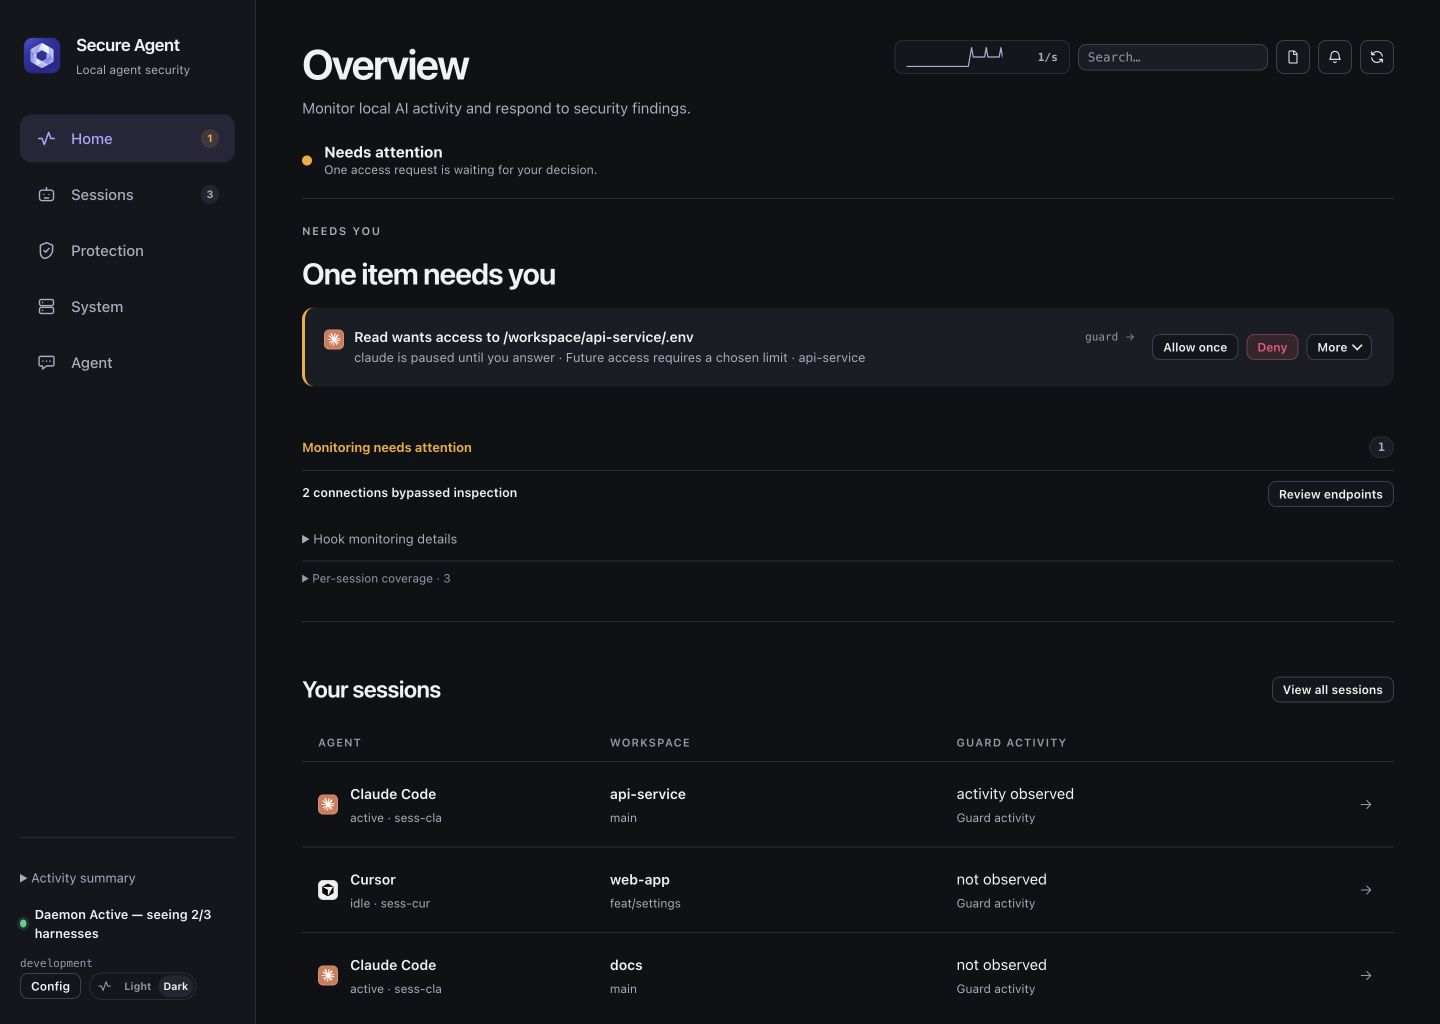
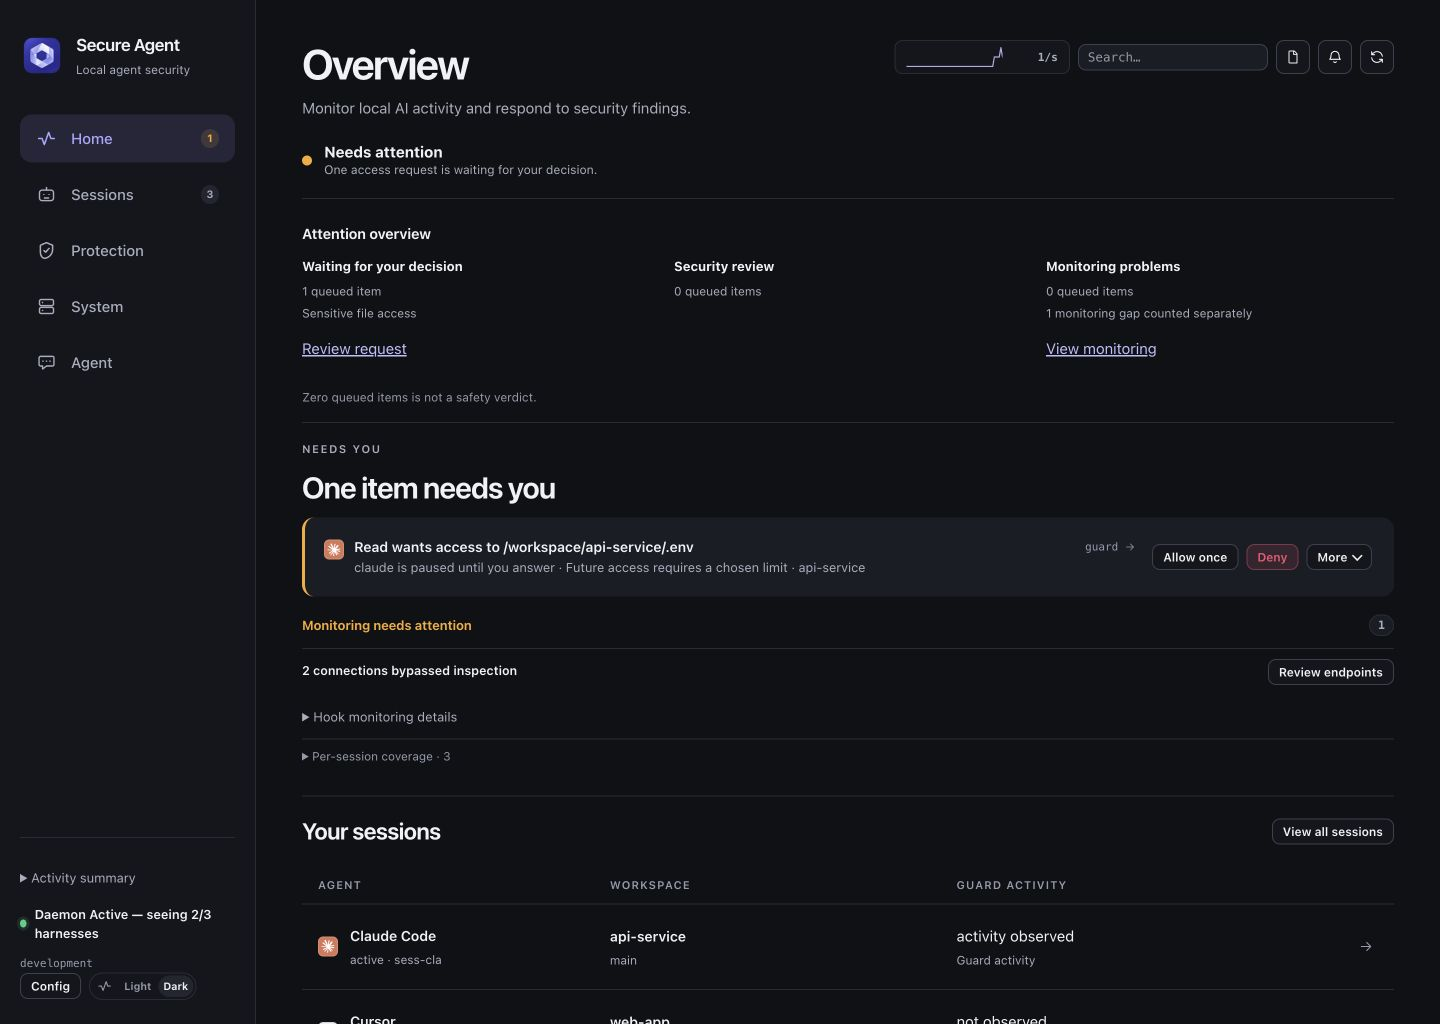
fix: reduce console navigation friction (#565)
* fix: reduce console navigation friction

* docs: refresh console overview screenshot

diff --git a/daemon/internal/api/web_dist/tab-findings.js b/daemon/internal/api/web_dist/tab-findings.js
@@ -42,15 +42,15 @@ function renderCoverage() {
             ? '<span class="coverage-guidance">Run Doctor to review lost telemetry. Restarting cannot restore missing evidence.</span>'
         : '<span class="coverage-guidance">Check Setup &amp; Permissions in the menu bar</span>';
     return `<div class="coverage-row"><span><strong>${escapeHTML(it.title)}</strong><span>${escapeHTML(it.detail || '')}</span></span>${action}</div>`;
-  }).join('') + (showHooks ? `<details class="coverage-diagnostics" data-hook-disclosure="monitoring"><summary>Hook monitoring details</summary>${hookMonitoringHTML(hooks)}</details>` : '') + (hookSetup ? '<button type="button" class="link-btn" data-action="hook-setup">Hook setup and verification</button>' : '') + (sessions.length ? `<details class="coverage-harness"><summary>Per-session coverage · ${sessions.length}</summary>${sessions.map(s => {
+  }).join('') + (showHooks ? `<details class="coverage-diagnostics" data-hook-disclosure="monitoring"><summary>Hook monitoring details</summary>${hookMonitoringHTML(hooks)}</details>` : '') + (hookSetup ? '<button type="button" class="link-btn" data-action="hook-setup">Hook setup and verification</button>' : '') + (sessions.length ? `<details class="coverage-harness" data-coverage-disclosure="sessions"><summary>Per-session coverage · ${sessions.length}</summary>${sessions.map(s => {
     const path = (name, p = {}) => {
       p = p || {};
       return `<span>${name}: ${escapeHTML(coveragePathLabel(p))}${p.last_seen ? ` · ${escapeHTML(p.last_seen)}` : ''}</span><span class="coverage-guidance">${escapeHTML(p.detail || '')}</span>`;
     };
-    return `<details class="coverage-session" data-session-id="${escapeHTML(s.session_id || '')}"><summary>${escapeHTML(s.workspace || s.harness || 'Unresolved session')} · Guard: ${escapeHTML(coveragePathLabel(s.guard))}</summary><div class="coverage-row"><span><strong>${escapeHTML(s.harness || '')}${s.session_id ? '' : ' · session identity unresolved'}</strong>${path('Trace', s.trace)}${path('Guard', s.guard)}${path('Payload inspection', s.payload)}</span></div></details>`;
+    return `<details class="coverage-session" data-coverage-disclosure="${escapeHTML(JSON.stringify(s.session_id ? ['session', s.session_id] : ['unresolved', s.harness || '', s.workspace || '']))}" data-session-id="${escapeHTML(s.session_id || '')}"><summary>${escapeHTML(s.workspace || s.harness || 'Unresolved session')} · Guard: ${escapeHTML(coveragePathLabel(s.guard))}</summary><div class="coverage-row"><span><strong>${escapeHTML(s.harness || '')}${s.session_id ? '' : ' · session identity unresolved'}</strong>${path('Trace', s.trace)}${path('Guard', s.guard)}${path('Payload inspection', s.payload)}</span></div></details>`;
   }).join('')}<p class="coverage-guidance">Observations belong to each session. An installed-hook check and activity in another session do not prove this session is protected.</p>${status.coverage.sessions_truncated ? '<p class="coverage-guidance">More sessions are running than this list can show. Coverage for the remaining sessions is not shown.</p>' : ''}</details>` : '')
-  + (probes.length ? `<details class="coverage-harness"><summary>Installed hook checks</summary>${probes.map(p => `<div class="coverage-row"><span><strong>${escapeHTML(p.harness)} · ${escapeHTML(p.state)}</strong><span>${escapeHTML(p.hook_path)}</span><span>Checked ${escapeHTML(p.checked_at)}</span><span>${escapeHTML(p.detail)}</span></span></div>`).join('')}</details>` : '')
-  + (harnesses.length ? `<details class="coverage-harness"><summary>Per-agent coverage</summary>${harnesses.map(h => {
+  + (probes.length ? `<details class="coverage-harness" data-coverage-disclosure="probes"><summary>Installed hook checks</summary>${probes.map(p => `<div class="coverage-row"><span><strong>${escapeHTML(p.harness)} · ${escapeHTML(p.state)}</strong><span>${escapeHTML(p.hook_path)}</span><span>Checked ${escapeHTML(p.checked_at)}</span><span>${escapeHTML(p.detail)}</span></span></div>`).join('')}</details>` : '')
+  + (harnesses.length ? `<details class="coverage-harness" data-coverage-disclosure="agents"><summary>Per-agent coverage</summary>${harnesses.map(h => {
     const trace = !h.trace_supported ? 'not supported' : h.trace_last_seen ? 'activity observed in 24h' : 'supported; no activity observed in 24h';
     const guard = !h.guard_supported ? 'not supported' : h.hook_last_seen ? 'hook activity observed in 24h' : 'supported; no hook activity observed in 24h';
     return `<div class="coverage-row"><span><strong>${escapeHTML(h.name)}</strong><span>Trace: ${escapeHTML(trace)} · Guard: ${escapeHTML(guard)}</span></span></div>`;
@@ -58,16 +58,18 @@ function renderCoverage() {
     ? 'Payload inspection covers connections routed through the proxy; review Egress for coverage.'
     : 'Payload inspection is off (proxy disabled).'} Recent harness activity does not prove every current session is guarded.</p></details>` : '');
   if (list.coverageHTML === html) return;
-  const open=new Set([...(list.querySelectorAll?.('[data-hook-disclosure][open]') || [])].map(el=>el.dataset.hookDisclosure));
+  const disclosures = '[data-hook-disclosure], [data-coverage-disclosure]';
+  const key = el => el?.dataset.hookDisclosure ? 'hook:' + el.dataset.hookDisclosure : el?.dataset.coverageDisclosure ? 'coverage:' + el.dataset.coverageDisclosure : null;
+  const open=new Set([...(list.querySelectorAll?.(disclosures) || [])].filter(el=>el.open).map(key));
   const focused=document.activeElement;
   const action=focused?.closest?.('[data-action]');
   const focusKey=action && list.contains?.(action) ? JSON.stringify(action.dataset) : null;
-  const summaryKey=focused?.matches?.('summary') && focused.parentElement?.dataset.hookDisclosure;
+  const summaryKey=focused?.matches?.('summary') && key(focused.parentElement);
   list.innerHTML=html;
   list.coverageHTML=html;
-  for(const el of list.querySelectorAll?.('[data-hook-disclosure]') || []) if(open.has(el.dataset.hookDisclosure)) el.open=true;
+  for(const el of list.querySelectorAll?.(disclosures) || []) if(open.has(key(el))) el.open=true;
   const replacement=focusKey ? [...(list.querySelectorAll?.('[data-action]') || [])].find(el=>JSON.stringify(el.dataset)===focusKey)
-    : summaryKey ? [...(list.querySelectorAll?.('[data-hook-disclosure]') || [])].find(el=>el.dataset.hookDisclosure===summaryKey)?.querySelector('summary') : null;
+    : summaryKey ? [...(list.querySelectorAll?.(disclosures) || [])].find(el=>key(el)===summaryKey)?.querySelector('summary') : null;
   replacement?.focus({preventScroll:true});
 }
 
@@ -456,7 +458,7 @@ function attentionSummaryHTML(posture, stale) {
     const inspect = !stale && first ? `<button type="button" class="link-btn" data-action="select-attention" data-need-kind="${escapeHTML(first.kind)}" data-need-id="${escapeHTML(first.id)}">${b.kind === 'decisions' ? 'Review request' : b.kind === 'security' ? 'Review evidence' : 'Inspect issue'}</button>` : '';
     const gaps = b.coverage_count ? `<p>${b.coverage_count} monitoring gap${b.coverage_count === 1 ? '' : 's'} counted separately</p>${!stale ? '<button type="button" class="link-btn" data-action="view-monitoring">View monitoring</button>' : ''}` : '';
     return `<article class="attention-summary-card"><h3>${titles[b.kind]}</h3><p>${b.count} queued item${b.count === 1 ? '' : 's'}</p>${first ? `<p>${escapeHTML(first.title)}</p>` : ''}${inspect}${gaps}</article>`;
-  }).join('')}</div><p>Queue categories preserve the existing priority and actions. Zero queued items is not a safety verdict.</p>`;
+  }).join('')}</div><p>Zero queued items is not a safety verdict.</p>`;
 }
 
 function renderAttentionSummary(SA) {

diff --git a/daemon/internal/api/web_dist/session-workbench.js b/daemon/internal/api/web_dist/session-workbench.js
@@ -5,7 +5,7 @@
 
 // Empty recovery considers ended sessions hidden only by Live only.
 function sessionEmptyHTML(groups, filter) {
-  const filtered = !!String(filter.text || '').trim() || Object.values(filter.harnesses || {}).some(value => value === false);
+  const filtered = !!String(filter.text || filter.search || '').trim() || Object.values(filter.harnesses || {}).some(value => value === false);
   const visible = new Set(visibleSessionMembers(applySessionFilters(groups, filter)).map(session => session.id));
   const hiddenEnded = filter.liveOnly && visibleSessionMembers(applySessionFilters(groups, {...filter, liveOnly: false}))
     .some(session => session.status === 'ended' && !visible.has(session.id));
@@ -620,9 +620,10 @@ function sessionHooksHTML(rows, state, health, healthState, ingestion, sessionId
 
 // Durable IDs are the entry point; live process counts and setup checks do
 // not substitute for a session's own record.
-function sessionDailyHTML(sessions, coverage) {
+function sessionDailyHTML(sessions, coverage, search) {
   if (!Array.isArray(sessions)) return '<p role="status">Session data unavailable.</p>';
-  const live = sessions.filter(s => s.status === 'active' || s.status === 'idle');
+  const live = sessions.filter(s => (s.status === 'active' || s.status === 'idle') && sessionMatchesText(s, search));
+  if (!live.length && String(search || '').trim()) return '<p role="status">No live sessions match your search. <button type="button" class="link-btn" data-action="clear-global-search">Clear search</button></p>';
   if (!live.length) return '<p>No live sessions recorded. Active processes may not yet have an attributed session.</p>';
   const rows = live.slice(0, 6).map(s => {
     const observed = ((coverage && coverage.sessions) || []).find(c => c.session_id === s.id);
@@ -640,7 +641,7 @@ function renderSessionDaily() {
   const el = document.getElementById('session-daily');
   if (!el) return;
   const SA = window.SA;
-  const html = sessionDailyHTML(SA.t.sessions, SA.t.status && SA.t.status.coverage);
+  const html = sessionDailyHTML(SA.t.sessions, SA.t.status && SA.t.status.coverage, window.globalSearchTerm?.());
   if (el._saHTML !== html) { el.innerHTML = html; el._saHTML = html; }
 }
 
@@ -1284,9 +1285,9 @@ function createSessionWorkbench({ apiFetch, renderNow, onSelect = () => {} }) {
     if (!rail) return;
     const agents = (SA.t.status && SA.t.status.agents) ? SA.t.status.agents : [];
     const trees = SA.t.status && SA.t.status.trees;
-    const filter = SA.harnessFilter;
+    const filter = {...SA.harnessFilter, search: window.globalSearchTerm?.() || ''};
     const q = filter.text || '';
-    const filtered = !!String(q).trim() || Object.values(filter.harnesses).some(v => v === false);
+    const filtered = !!String(q || filter.search).trim() || Object.values(filter.harnesses).some(v => v === false);
     const noMatch = `<div class="empty"><svg class="icon"><use href="#i-agent"/></svg><span>No sessions match — <button type="button" class="link-btn" data-action="clear-harness-filter">clear the filter</button></span></div>`;
     const quiet = `<div class="empty"><svg class="icon"><use href="#i-agent"/></svg><span>All quiet. Nothing is running.</span></div>`;
     // The durable session spine (/sessions) is the source of truth when the
@@ -1379,7 +1380,7 @@ function createSessionWorkbench({ apiFetch, renderNow, onSelect = () => {} }) {
     }
 
     // Legacy fallback: process-tree board, no rail, no harness grouping.
-    const rows = filterSessionRows(sessionRows(agents, trees), q);
+    const rows = filterSessionRows(filterSessionRows(sessionRows(agents, trees), q), filter.search);
     if (badge) badge.textContent = rows.length;
     SA.setTabBadge('sessions', rows.length);
     if (pills) pills.innerHTML = '';
@@ -1388,7 +1389,7 @@ function createSessionWorkbench({ apiFetch, renderNow, onSelect = () => {} }) {
     if (detail) detail.hidden = true;
     if (legacy) legacy.hidden = false;
     if (rows.length === 0) {
-      legacy.innerHTML = String(q).trim() ? noMatch : quiet;
+      legacy.innerHTML = filtered ? noMatch : quiet;
       return;
     }
     const now = Date.now();

diff --git a/daemon/internal/api/web_dist/style.css b/daemon/internal/api/web_dist/style.css
@@ -1226,7 +1226,7 @@ main { min-width: 0; }
 .protection-view { display: flex; flex-direction: column; gap: 18px; min-width: 0; }
 .protection-view .panel-head p { max-width: 72ch; margin-top: 4px; font-size: .78rem; color: var(--tx-2); }
 .protection-view .notify-pop-sub, .drawer-body > p { max-width: 72ch; }
-.needs { display: grid; gap: 16px; margin-bottom: 32px; }
+.needs { display: grid; gap: 12px; margin-bottom: 0; }
 .needs[hidden] { display: none; }
 .review-result[hidden] { display: none; }
 .review-result .panel-head { flex-wrap: wrap; }
@@ -1268,7 +1268,7 @@ button.need-head:hover .need-what { text-decoration: underline; text-decoration-
 .need-detail { grid-column: 1 / -1; display: grid; gap: 10px; padding: 4px 0 4px 30px; }
 .need-detail[hidden], .log-detail[hidden] { display: none; }
 
-.coverage-panel { background: transparent; border: 0; border-bottom: 1px solid var(--line); border-radius: 0; margin-bottom: 32px; padding-bottom: 20px; }
+.coverage-panel { background: transparent; border: 0; border-bottom: 1px solid var(--line); border-radius: 0; margin-bottom: 0; padding-bottom: 16px; }
 .coverage-panel .panel-head { padding: 0 0 12px; border: 0; }
 .coverage-panel .panel-body { padding-left: 0; padding-right: 0; }
 .coverage-panel[data-gap="true"] h2 { color: var(--warn); }
@@ -1795,11 +1795,15 @@ button.fact:hover { background: var(--bg-3); border-color: var(--brand); }
 .sd-outcome h5 { margin: 0; font-size: 13px; }
 .sd-outcome time { font: 11px/1.4 var(--mono); color: var(--tx-2); }
 .sd-outcome p { margin: 6px 0; font-size: 12px; }
-.attention-summary-grid { display: grid; grid-template-columns: repeat(auto-fit, minmax(min(100%, 220px), 1fr)); gap: 12px; }
-.attention-summary-card { min-width: 0; padding: 12px; border: 1px solid var(--line); border-radius: var(--r-sm); overflow-wrap: anywhere; }
-.attention-summary-card h3 { margin: 0 0 8px; font-size: 13px; }
-.attention-summary-card p { margin: 6px 0; color: var(--tx-2); }
+.attention-overview { border: 0; border-bottom: 1px solid var(--line); border-radius: 0; background: transparent; }
+.attention-overview .panel-head { padding: 0 0 12px; border: 0; }
+.attention-overview .panel-body { padding: 0 0 16px; }
+.attention-summary-grid { display: grid; grid-template-columns: repeat(auto-fit, minmax(min(100%, 220px), 1fr)); gap: 12px 24px; }
+.attention-summary-card { min-width: 0; padding: 0; overflow-wrap: anywhere; }
+.attention-summary-card h3 { margin: 0 0 6px; font-size: 13px; }
+.attention-summary-card p { margin: 4px 0; color: var(--tx-2); font-size: 12px; }
 .attention-summary-card .link-btn { min-height: 44px; }
+#attention-summary > p { margin: 8px 0 0; color: var(--tx-3); font-size: 12px; }
 .sd-hooks-scroll { max-width: 100%; overflow-x: auto; }
 .sd-hook-evidence { min-width: 0; overflow-wrap: anywhere; }
 .hook-diagnostic-preview { min-width: 0; margin-top: 16px; }

diff --git a/packaging/test/console_dom/cases_home_ux.js b/packaging/test/console_dom/cases_home_ux.js
@@ -1,0 +1,42 @@
+// Search and reading continuity through the real render and refresh lifecycle.
+(() => {
+  const {data, ready, wait, idle, openTab} = window.DomTest;
+  const sample = {session_id:'sess-claude-1', harness:'claude', workspace:'/workspace/api-service', guard:{state:'observed', detail:'Session observation', last_seen:'2026-10-15T12:00:00Z'}, trace:{state:'observed'}, payload:{state:'not-observed'}};
+  data['/status'].coverage = {sessions:[sample]};
+  ready().then(async () => {
+    const probe = {};
+    try {
+      openTab('home');
+      await wait(() => !!document.querySelector('.coverage-session'));
+      const root = document.querySelector('.coverage-session').parentElement;
+      root.open = true;
+      const row = root.querySelector('.coverage-session');
+      row.open = true;
+      row.querySelector('summary').focus();
+      sample.guard.last_seen = '2026-10-15T12:01:00Z';
+      document.querySelector('#btn-refresh').click();
+      await wait(() => document.querySelector('#coverage-list').textContent.includes('12:01:00'));
+      await idle();
+      const updated = document.querySelector('.coverage-session');
+      probe.reading = updated.open && updated.parentElement.open;
+      probe.focus = document.activeElement === updated.querySelector('summary');
+      const input = document.querySelector('#global-search');
+      const search = async value => {input.value = value; input.dispatchEvent(new Event('input', {bubbles:true})); await idle();};
+      await search('no-such-session');
+      probe.empty = !document.querySelector('#session-daily .session-daily-card') && document.querySelector('#session-daily').textContent.includes('No live sessions match');
+      document.querySelector('#session-daily [data-action="clear-global-search"]')?.click();
+      await idle();
+      probe.clear = input.value === '' && document.activeElement === input && !!document.querySelector('#session-daily .session-daily-card');
+      await search('api-service');
+      probe.match = [...document.querySelectorAll('#session-daily .session-daily-card')].map(el => el.dataset.session).sort().join(',') === 'sess-claude-1,sess-claude-sub';
+      openTab('sessions');
+      await search('no-such-session');
+      probe.rail = !document.querySelector('#session-rail [data-action="select-session"]') && document.querySelector('#session-rail').textContent.includes('No live sessions match');
+      document.querySelector('#session-rail [data-action="clear-harness-filter"]')?.click();
+      await idle();
+      probe.railClear = input.value === '' && !!document.querySelector('#session-rail [data-action="select-session"]');
+      probe.fits = document.documentElement.scrollWidth <= innerWidth;
+    } catch(error) {probe.error = error.message;}
+    document.body.dataset.homeUxProbe = JSON.stringify(probe);
+  });
+})();

diff --git a/daemon/internal/api/web_dist/lib.js b/daemon/internal/api/web_dist/lib.js
@@ -761,19 +761,19 @@ function sessionMatchesText(s, text) {
   const q = String(text || '').trim().toLowerCase();
   if (!q) return true;
   const repoBranch = s.repo ? `${s.repo}${s.branch ? '@' + s.branch : ''}` : '';
-  return [s.repo, s.branch, repoBranch, s.workspace, originAgent(s), s.origin]
+  return [s.id, s.harness, harnessMeta(s.harness).label, s.repo, s.branch, repoBranch, s.workspace, originAgent(s), s.origin]
     .some(f => String(f || '').toLowerCase().includes(q));
 }
 
 // applySessionFilters: the rail's filter row over groupSessionsByHarness
 // output. opts.harnesses maps a harness key to false when its pill is off;
-// opts.text keeps a family when any member matches; opts.liveOnly drops
+// opts.text and opts.search intersect on a matching family member; opts.liveOnly drops
 // groups with nothing live. The infra group carries totals, not sessions, and
 // is never filtered. Pure; returns new group objects.
 function applySessionFilters(groups, opts) {
   const o = opts || {};
   const off = o.harnesses || {};
-  const keep = (fams) => fams.filter(f => [f.session, ...f.children].some(s => sessionMatchesText(s, o.text)));
+  const keep = (fams) => fams.filter(f => [f.session, ...f.children].some(s => sessionMatchesText(s, o.text) && sessionMatchesText(s, o.search)));
   const out = [];
   for (const g of groups || []) {
     if (g.infra) { out.push(g); continue; }

diff --git a/daemon/internal/api/web_dist/app.js b/daemon/internal/api/web_dist/app.js
@@ -2204,6 +2204,10 @@ document.addEventListener('DOMContentLoaded', () => {
   function clearHarnessFilter(origin) {
     const fromSessions = !!origin?.closest('#session-board-panel');
     const searchId = fromSessions ? 'session-cwd-filter' : origin?.closest('#agents-container') ? 'agent-filter-text' : null;
+    if (fromSessions) {
+      globalSearch = '';
+      document.getElementById('global-search').value = '';
+    }
     harnessFilter.harnesses = {};
     harnessFilter.text = '';
     harnessFilterChanged();
@@ -3926,6 +3930,12 @@ document.addEventListener('DOMContentLoaded', () => {
       case 'all-harnesses':
         harnessFilter.harnesses = {};
         harnessFilterChanged();
+        break;
+      case 'clear-global-search':
+        globalSearch = '';
+        document.getElementById('global-search').value = '';
+        renderAll();
+        document.getElementById('global-search').focus({preventScroll:true});
         break;
       case 'clear-harness-filter':
         clearHarnessFilter(el);

diff --git a/daemon/internal/api/web_dist/index.html b/daemon/internal/api/web_dist/index.html
@@ -218,7 +218,7 @@
     <main id="main-content" tabindex="-1">
       <!-- Home: decisions and coverage first; detail opens on demand. -->
       <div class="tabpanel" id="tab-home" role="tabpanel">
-        <section class="panel" aria-labelledby="attention-summary-title">
+        <section class="panel attention-overview" aria-labelledby="attention-summary-title">
           <div class="panel-head"><h2 id="attention-summary-title" tabindex="-1">Attention overview</h2></div>
           <div class="panel-body" id="attention-summary"></div>
         </section>

diff --git a/packaging/test/console_dom/cases_sessions.py b/packaging/test/console_dom/cases_sessions.py
@@ -390,6 +390,15 @@ def run_hook_history(page):
         for name in ('initial', 'errors', 'blocks', 'cancelled', 'runtime', 'chars', 'search', 'empty', 'refresh', 'stale', 'retry', 'clear', 'mobile', 'fits', 'selection'):
             page.check(f'hook history ({label}): {name}', state.get(name) is True, str(state))
 
+def run_home_ux(page):
+    for label, size in [('desktop', (1280, 800)), ('narrow', (375, 800))]:
+        dom = page.dom('?homeux', window_size=size, served=True,
+                       fixture={'script': 'cases_home_ux.js'})
+        receipt = re.search(r'data-home-ux-probe="([^"]+)"', dom)
+        state = json.loads(html.unescape(receipt.group(1))) if receipt else {}
+        for name in ('reading', 'focus', 'empty', 'clear', 'match', 'rail', 'railClear', 'fits'):
+            page.check(f'Home UX ({label}): {name}', state.get(name) is True, str(state))
+
 def run_attention_summary(page):
     for label, size in [('desktop', (1280, 800)), ('narrow', (375, 800))]:
         dom = page.dom('?attentionsummary', window_size=size, served=True,
@@ -576,6 +585,7 @@ CASES = (
     Case('guard_receipts', run_guard_receipts, ()),
     Case('hook_monitoring', run_hook_monitoring, ()),
     Case('hook_history', run_hook_history, ()),
+    Case('home_ux', run_home_ux, ()),
     Case('attention_summary', run_attention_summary, ()),
     Case('hook_diagnostics', run_hook_diagnostics, ()),
     Case('session_hooks', run_session_hooks, ()),
